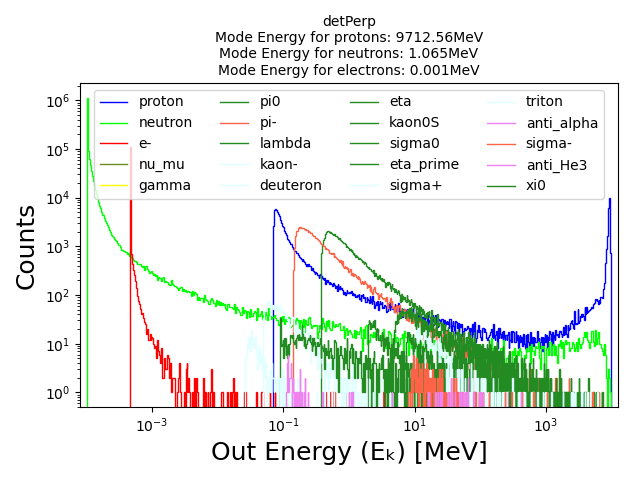
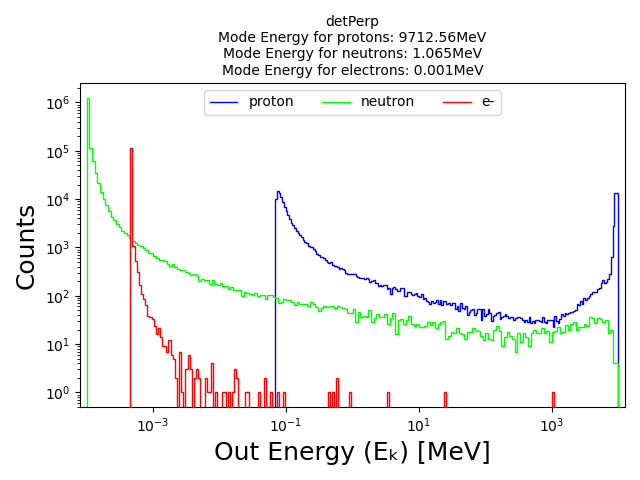
Plots

diff --git a/data/countsOfParticles.py b/data/countsOfParticles.py
@@ -9,12 +9,16 @@ import matplotlib.colors as mcolors
 detector = sys.argv[2]
 value = str(sys.argv[3])
 units = ""
+var = ""
 if value == "Energy":
     units = "MeV"
+    var = "E\u2096"
 elif value == "Momentum":
     units = "GeV/c"
+    var = "p"
 elif value == "Velocity":
     units = "c"
+    var = "v"
 
 main = [
     "e-",
@@ -66,67 +70,60 @@ def draw(particleName, clr):
                 data.append((1 - (m / (T + m)) ** 2) ** 0.5)
 
     data.sort()
-    counts, bins = np.histogram(data, bins=500)
+    counts, bins = np.histogram(data, bins=200)
     if clr == "":
         clr = Colors[str(int(round(float(ch), 0)))]
     if value == "Energy":
         logbins = np.logspace(np.log10(bins[0]), np.log10(bins[-1]), len(bins))
         if math.isnan(logbins[0]):
             logbins = bins
-        ax.stairs(counts, logbins, color=clr, label=particleName)
-    else:
-        ax.stairs(counts, bins, color=clr, label=particleName)
-    return data
+        bins = logbins
 
+    counts = list(counts)
+    counts.append(counts[-1])
+    return counts, bins, data
+
+
+c, b, d1 = draw("proton", "blue")
+c2, b2, d2 = draw("neutron", "lime")
+c3, b3, d3 = draw("e-", "red")
 
 string = ""
+string += "Mode " + value + " for protons: " + str(round(st.mode(d1), 3)) + units + "\n"
 string += (
-    "Mode "
-    + value
-    + " for protons: "
-    + str(round(st.mode(draw("proton", "blue")), 3))
-    + units
-    + "\n"
+    "Mode " + value + " for neutrons: " + str(round(st.mode(d2), 3)) + units + "\n"
 )
-string += (
-    "Mode "
-    + value
-    + " for neutrons: "
-    + str(round(st.mode(draw("neutron", "lime")), 3))
-    + units
-    + "\n"
-)
-string += (
-    "Mode "
-    + value
-    + " for electrons: "
-    + str(round(st.mode(draw("e-", "red")), 3))
-    + units
-)
+string += "Mode " + value + " for electrons: " + str(round(st.mode(d3), 3)) + units
 print(string)
 print(others)
-if value != "Velocity":
-    for o in others:
-        draw(o, others[o])
 
-ax.set_xlabel("Out " + value + " (E\u2096) [" + units + "]", size=18)
+ax.set_xlabel("Out " + value + " (" + var + ") [" + units + "]", size=18)
 ax.set_ylabel("Counts", size=18)
-ax.legend(loc="upper center", ncol=4)
-ax.set_title(
-    # sys.argv[1] +
-    detector + "\n" + string,
-    size=10,
-)
+ax.set_title(detector + "\n" + string, size=10)
 ax.minorticks_on()
 
 if value == "Energy":
+    ax.minorticks_on()
+    # plt.stackplot(
+    #     b3, [c3, b3], labels=["e-"], colors=["red"], baseline="weighted_wiggle"
+    # )
+    # plt.stackplot(b, [c, b], labels=["p"], colors=["blue"], baseline="weighted_wiggle")
+    # plt.stackplot(
+    #     b2, [c2, b2], labels=["n"], colors=["lime"], baseline="weighted_wiggle"
+    # )
     ax.set_yscale("log")
     ax.set_xscale("log")
+    ax.stairs(c[0:-1], b, color="blue", label="proton")
+    ax.stairs(c2[0:-1], b2, color="lime", label="neutron")
+    ax.stairs(c3[0:-1], b3, color="red", label="e-")
     ax.set_xlim([10 ** (-4.1), 10 ** (4.1)])
-    ax.minorticks_on()
 else:
+    ax.stairs(c[0:-1], b, color="blue", label="proton")
+    ax.stairs(c2[0:-1], b2, color="lime", label="neutron")
+    ax.stairs(c3[0:-1], b3, color="red", label="e-")
     ax.set_xlim([0, 1.05])
 
+ax.legend(loc="upper center", ncol=4)
 plt.tight_layout()
 plt.savefig("plots/Counts" + value + detector + ".png")
 # plt.show()

diff --git a/README.md b/README.md
@@ -13,13 +13,13 @@ cp ../*.mac #copy macro files\
 Output #!!!! Unknown  means that simulation created particle unknown to geant4 particle table
 ## files in data/ - our plots making scripts
 in /sims catalog we have our simulation results in catalogs named after beam energy
-| file                 | description                                                                                                          |                   parameters                    |
-| :------------------- | :------------------------------------------------------------------------------------------------------------------- | :---------------------------------------------: |
-| getPerpAndPara       | gives information how many neutrons or protons came through which detector and generates output for crossSections.py |                 minimal energy                  |
-| countsOfParticles.py | gives information about how many counts corresponds to which energy or velocity                                      | file.csv Energy/Momentum/Velocity MeV/(MeV/c)/c |
-| crossSections.py     | gives plot of cross section versus energy                                                                            |     (gets data from sims/protonsThrough.py)     |
-| data.py              | gives information about number and position of specific particle                                                     |                    file.csv                     |
-| Z.py                 | gives information about where on Z axis particle was found, we can approximate mean free path from this              |                    file.csv                     |
+| file                 | description                                                                                                          |               parameters                |
+| :------------------- | :------------------------------------------------------------------------------------------------------------------- | :-------------------------------------: |
+| getPerpAndPara       | gives information how many neutrons or protons came through which detector and generates output for crossSections.py |            type of particle             |
+| countsOfParticles.py | gives information about how many counts corresponds to which energy or velocity                                      |    file.csv Energy/Momentum/Velocity    |
+| crossSections.py     | gives plot of cross section versus energy                                                                            | (gets data from sims/through.py) |
+| data.py              | gives information about number and position of specific particle                                                     | (gets data from sims/spallatedN.py) |
+| Z.py                 | gives information about where on Z axis particle was found, we can approximate mean free path from this              |                file.csv                 |
 ## script.sh
 It runs simulation for all energies and all lengths, creates folders named after beam energy
 ## csv files
